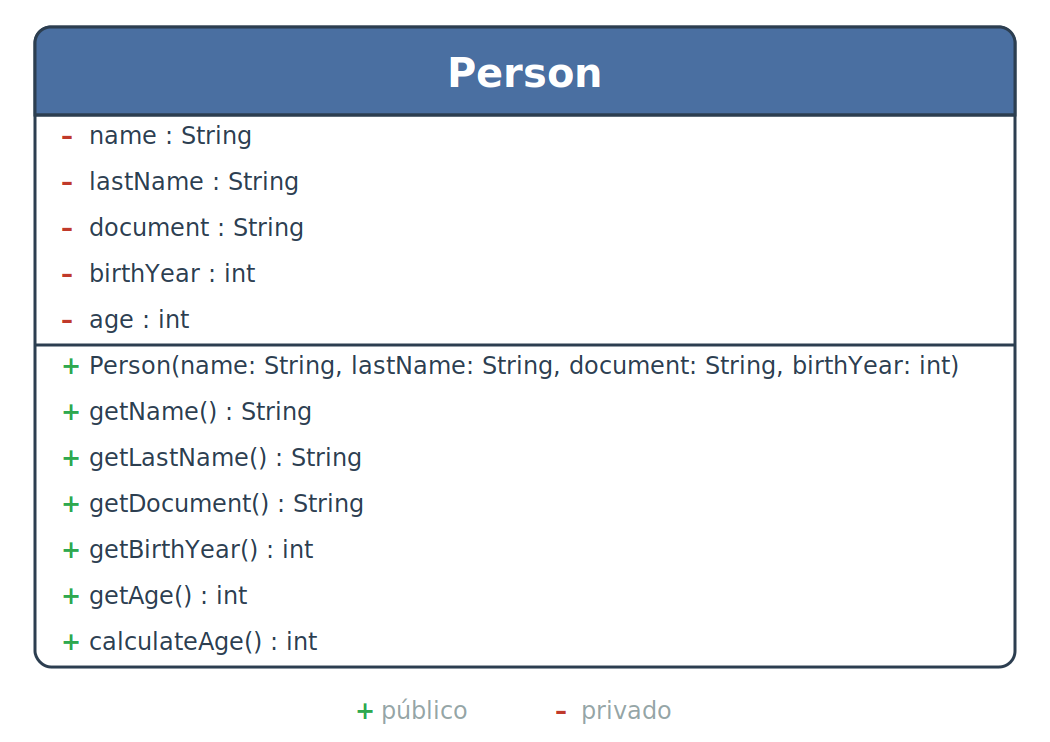
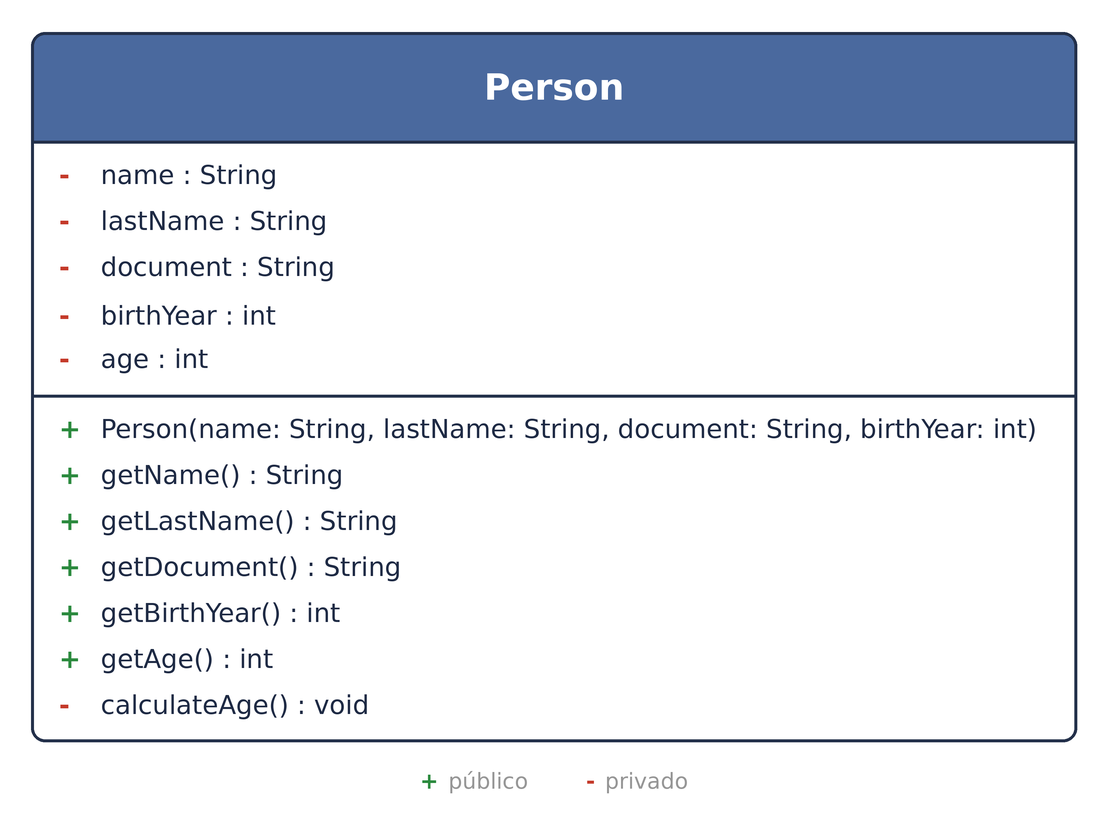
docs: update class diagram and testing evidence in readme

Changed region(s): [[0.0305, 0.031, 0.9752, 0.9919]]

diff --git a/README.md b/README.md
@@ -70,7 +70,7 @@ La clase debe tener un **constructor** que inicialice los valores de sus respect
 
 ## 📐 Diagrama de clase
 
-La clase `Person` encapsula cinco atributos privados (`name`, `lastName`, `document`, `birthYear` y `age`). El constructor recibe los cuatro primeros y calcula la `age` internamente, invocando al método `calculateAge()`. Expone un método de lectura (_getter_) por cada atributo. El número de documento se modela como `String` porque puede contener letras del DNI/NIE.
+La clase `Person` encapsula cinco atributos privados (`name`, `lastName`, `document`, `birthYear` y `age`). El constructor recibe los cuatro primeros e invoca internamente al método privado `calculateAge()`, que asigna la edad a partir del año de nacimiento. Expone un método de lectura (_getter_) por cada atributo. El número de documento se modela como `String` porque puede contener letras del DNI/NIE.
 
 ![Diagrama de clase de Person](assets/images/class-diagram-uml.png)
 
@@ -91,7 +91,7 @@ classDiagram
         +getDocument() String
         +getBirthYear() int
         +getAge() int
-        +calculateAge() int
+        -calculateAge() void
     }
 ```
 
@@ -101,16 +101,15 @@ classDiagram
 
 ## 🧪 Testing
 
-Siguiendo la metodología **TDD (Red-Green-Refactor)**, la clase `Person` se testea cubriendo todos sus escenarios, en seis iteraciones:
+Siguiendo la metodología **TDD**, la clase `Person` se testea cubriendo todos sus escenarios. Los tests comparten una misma instancia creada en el método `setUp()` anotado con `@BeforeEach`:
 
-| Test                                          | Escenario                                         |
-| --------------------------------------------- | ------------------------------------------------- |
-| `testConstructorCreatesPerson`                | Crea una persona e inicializa todos sus atributos |
-| `testGetNameReturnsName`                      | Devuelve el nombre                                |
-| `testGetLastNameReturnsLastName`              | Devuelve el apellido                              |
-| `testGetDocumentReturnsDocument`              | Devuelve el número de documento                   |
-| `testGetBirthYearReturnsBirthYear`            | Devuelve el año de nacimiento                     |
-| `testGetAgeReturnsAgeCalculatedFromBirthYear` | Calcula la edad a partir del año de nacimiento    |
+| Test               | Escenario                                      |
+| ------------------ | ---------------------------------------------- |
+| `testGetName`      | Devuelve el nombre                             |
+| `testGetLastName`  | Devuelve el apellido                           |
+| `testGetDocument`  | Devuelve el número de documento                |
+| `testGetBirthYear` | Devuelve el año de nacimiento                  |
+| `testGetAge`       | Calcula la edad a partir del año de nacimiento |
 
 ![Test de Person en verde](assets/images/test-explorer.png)
 
